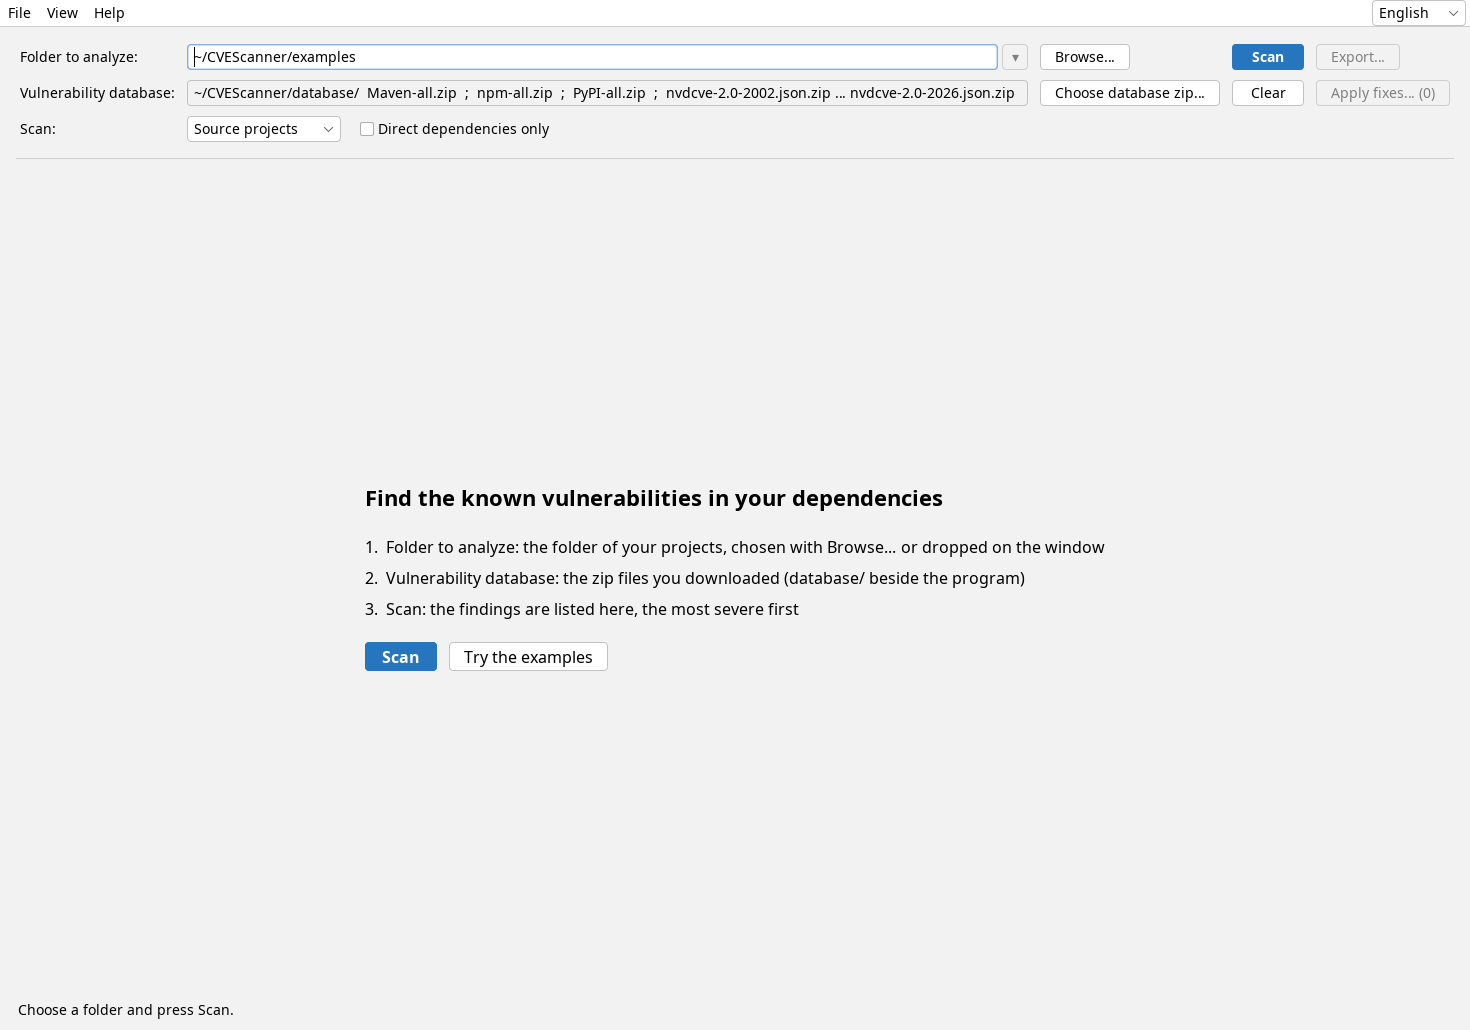
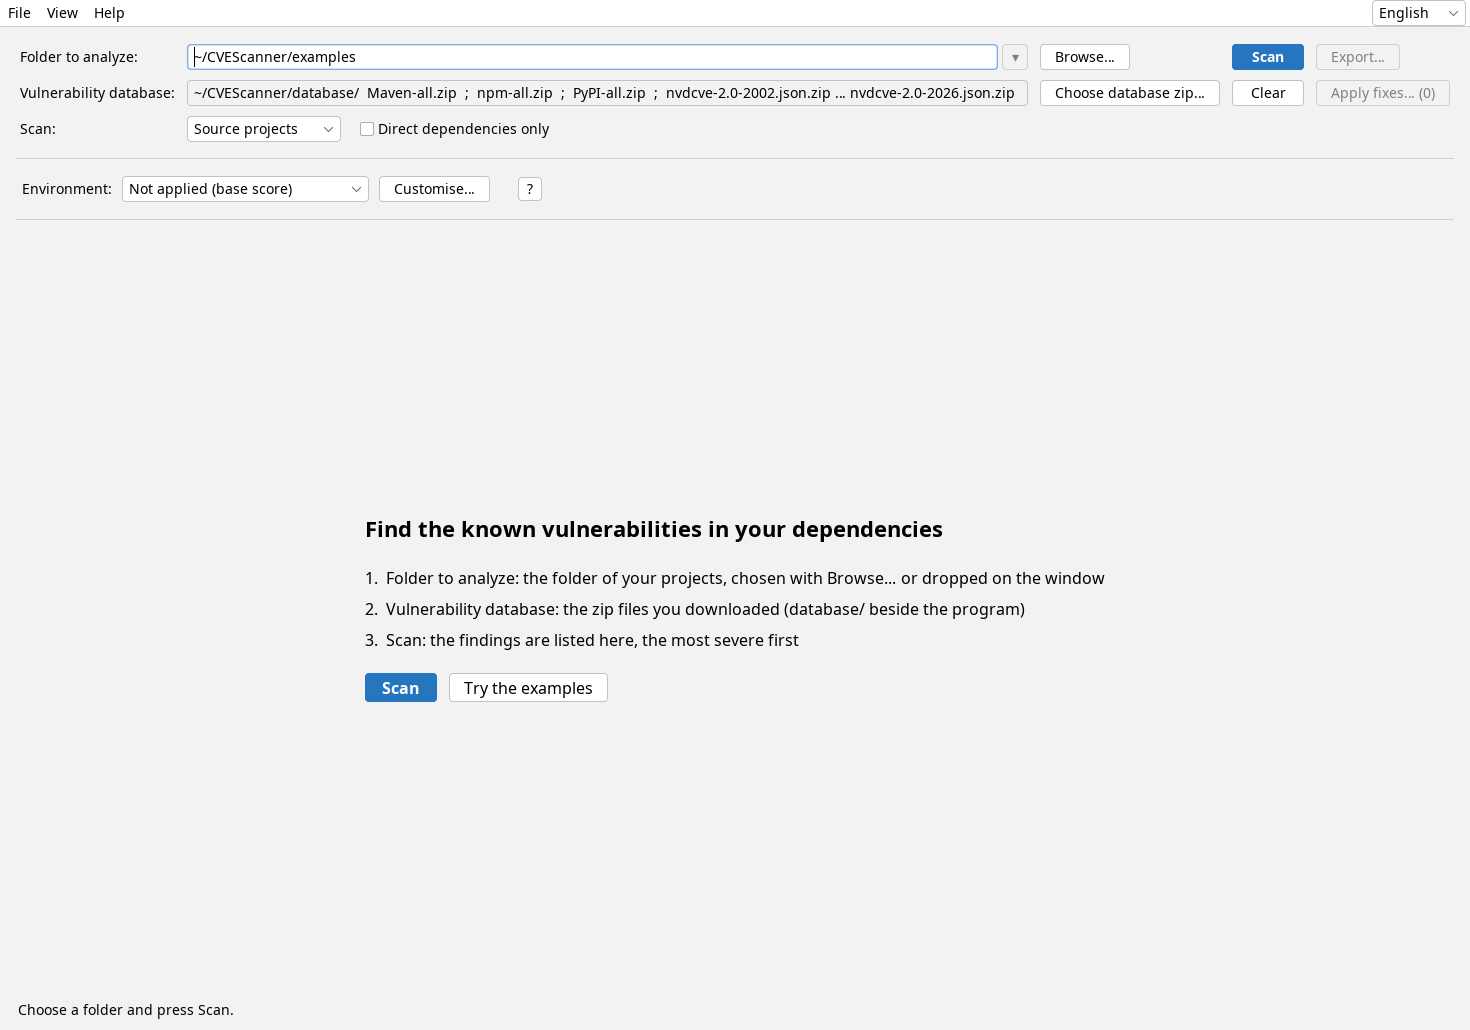
The environment line on the welcome too, to be chosen before the first scan
MainWindow.showBlocks shows the environment with the other settings, whether or not there are findings; the search,
the filters and the counters still come with them. WindowWelcomeTest finds the environment before the scan. The
welcome's pictures taken again; ScreenshotsTest shows the reader's folder as the window takes it, valid, Scan
enabled, rather than outlined as this machine does not have it.

Claude-Session: https://claude.ai/code/session_01SJHphkdyQqb6mk3bgEvXAA

diff --git a/cvescanner-app/src/main/java/org/jtools/cvescanner/MainWindow.java b/cvescanner-app/src/main/java/org/jtools/cvescanner/MainWindow.java
@@ -124,9 +124,9 @@ final class MainWindow extends JFrame {
     private WelcomePanel welcome;
     /** Before the first scan the welcome, then the tables and the details. */
     private final JPanel centreCards = new JPanel(new CardLayout());
-    /** The search, the filters and the counters: shown from the first scan, the welcome alone before. */
+    /** The search, the filters and the counters: shown from the first scan, the welcome in their place before. */
     private final List<JComponent> afterScan = new ArrayList<>();
-    /** The environment's row and the line above it: shown from the first scan, unless the settings are collapsed. */
+    /** The environment's row and the line below it: shown with the other settings, on the welcome too. */
     private final List<JComponent> environment = new ArrayList<>();
     /** The toolbar's rows below the folder's (the databases, what a scan reads), hidden when the settings are collapsed. */
     private final List<Component> collapsible = new ArrayList<>();
@@ -288,14 +288,13 @@ final class MainWindow extends JFrame {
 
     /**
      * What the window shows of its controls: the folder's row always; the other settings unless collapsed, the ignore
-     * file and the VEX documents in expert mode only, the environment from the first scan; the search, the filters and
-     * the counters from the first scan.
+     * file and the VEX documents in expert mode only; the search, the filters and the counters from the first scan.
      */
     private void showBlocks() {
         boolean collapsed = this.collapsed && result != null;   // before the first scan, the folder and the database to choose
         collapsible.forEach(c -> c.setVisible(!collapsed));
         expertRows.forEach(c -> c.setVisible(expert && !collapsed));
-        environment.forEach(c -> c.setVisible(result != null && !collapsed));
+        environment.forEach(c -> c.setVisible(!collapsed));
         afterScan.forEach(c -> c.setVisible(result != null));
         collapseButton.setVisible(result != null);
         collapseButton.setText(collapsed ? "▾" : "▴");

diff --git a/cvescanner-app/src/test/java/org/jtools/cvescanner/WindowWelcomeTest.java b/cvescanner-app/src/test/java/org/jtools/cvescanner/WindowWelcomeTest.java
@@ -34,8 +34,8 @@ import org.junit.jupiter.api.Test;
 import org.junit.jupiter.api.io.TempDir;
 
 /**
- * The window opened without a folder: the welcome alone, below the toolbar; its Scan, then the findings with the search
- * and the filters, the settings collapsed until ▾ shows them with the environment; the folder among the recent ones;
+ * The window opened without a folder: the welcome below the toolbar and the environment; its Scan, then the findings
+ * with the search and the filters, the settings collapsed until ▾ shows them again; the folder among the recent ones;
  * Scan greyed until a folder and a database are given. Only with -Dcvescanner.windowTest=true, on a virtual display
  * (scripts/window-check.sh).
  */
@@ -61,8 +61,7 @@ class WindowWelcomeTest {
         assertEquals(null, w.find(Component.class, k -> "tryExamples".equals(k.getName())), "no examples beside this program");
         assertEquals(null, w.find(Component.class, k -> "tabs".equals(k.getName())), "no table before a scan");
         assertEquals(null, w.find(Component.class, k -> "ecosystem".equals(k.getName())), "no filters before a scan");
-        assertEquals(null, w.find(Component.class, k -> "reach".equals(k.getName()) || "envCustomise".equals(k.getName())),
-                "no environment before a scan");
+        w.named("envCustomise");   // the environment, to choose before a scan
         w.type(w.named("folder", JTextField.class), SAMPLES.resolve("projects").toString());
         w.click(w.named("welcomeScan"));
         w.waitUntil("the findings in place of the welcome", () -> w.find(Component.class, k -> "tabs".equals(k.getName())) != null

diff --git a/cvescanner-app/src/test/java/org/jtools/cvescanner/ScreenshotsTest.java b/cvescanner-app/src/test/java/org/jtools/cvescanner/ScreenshotsTest.java
@@ -107,6 +107,13 @@ class ScreenshotsTest {
         show("databases", "~/CVEScanner/database/  Maven-all.zip  ;  npm-all.zip  ;  PyPI-all.zip  ;  nvdcve-2.0-2002.json.zip … "
                 + "nvdcve-2.0-2026.json.zip  ;  nvdcve-2.0-modified.json.zip");
         w.named("tryExamples");
+        // the folder shown is a reader's, not this machine's: the window as it is with that folder there
+        var folder = w.named("folder", javax.swing.JTextField.class);
+        var scans = List.of(w.named("scan"), w.named("welcomeScan"));
+        SwingUtilities.invokeAndWait(() -> {
+            folder.putClientProperty("JComponent.outline", null);
+            scans.forEach(b -> b.setEnabled(true));
+        });
         w.screenshot(dir.resolve("welcome.png"));
         w.close();
         w = null;

diff --git a/README.md b/README.md
@@ -148,8 +148,8 @@ Start `cvescanner.bat` or `CVEScanner.exe` (Windows), `cvescanner.sh` (Linux); g
    mode they are on the row).
 4. **Scan.** Reading a database takes from a few seconds to a minute or two, as its size.
 
-Until the first scan the window shows these steps below the toolbar, with **Try the examples**; the environment, the
-search and the filters come with the findings. To see it at
+Until the first scan the window shows these steps below the toolbar and the environment, with **Try the examples**;
+the search and the filters come with the findings. To see it at
 work first, scan the `examples` folder beside the program: a Maven, a Gradle, an npm and a yarn project
 declaring real packages at vulnerable versions (Log4Shell, Text4Shell, Spring4Shell…), what a scan finds listed in
 [examples/README.md](examples/README.md).

diff --git a/CHANGELOG.md b/CHANGELOG.md
@@ -3,6 +3,11 @@
 What each version brought, newest first. The GitHub Releases carry the same notes with the downloads and their
 checksums.
 
+## Unreleased
+
+- The welcome shows the **environment** line too, to be chosen before the first scan; the search, the filters and the
+  counters still come with the findings.
+
 ## 1.7.2 — 2026-11-22
 
 - The window's *Base score* is named **CVSS base score** (*Score CVSS de base*): the findings' column, the details,
